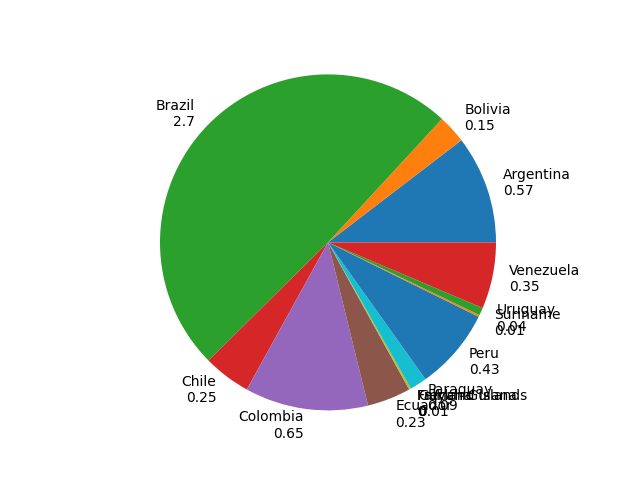
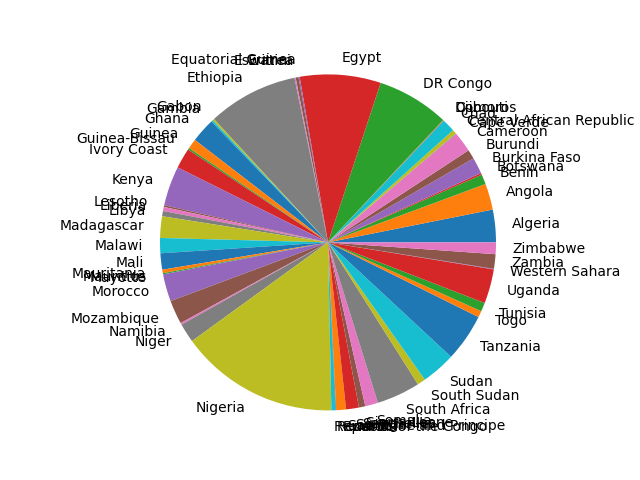
feat: se agregan nuevas funcionalidades y config de docker

Changed region(s): [[0.0938, 0.0938, 1.0, 0.9375]]

diff --git a/app/main.py b/app/main.py
@@ -1,15 +1,25 @@
 import utils
 import read_csv
 import charts
+import pandas as pd
 
 
 def run():
-  data = read_csv.read_csv('./data.csv')
+  '''
   data = list(
       filter(lambda country: country['Continent'] == 'South America', data))
   country = input('Escribe un pais:\n ')
 
-  result = utils.populationByCountry(data, country)
+  '''
+  dataFrames =  pd.read_csv('./data.csv' )
+  dataFrames = dataFrames[dataFrames['Continent'] == 'Africa']
+
+  country = dataFrames['Country/Territory'].values
+  porcetages = dataFrames['World Population Percentage'].values
+
+  charts.generate_pie_chart(country, porcetages)
+
+  result = utils.populationByCountry(country, country)
 
   if (len(result) > 0):
     labels, values = utils.get_population_by_country(result)

diff --git a/firstApi/main.py b/firstApi/main.py
@@ -1,0 +1,21 @@
+from fastapi import FastAPI
+
+app = FastAPI()
+
+@app.get("/")
+def read_root(name):
+    try:
+        return {
+            "status": 200,
+            "message": "first Api",
+            "object": {
+                "name": name,
+                "age": "<AGE>",
+            }
+        }
+    except Exception as error:
+        return {
+            "status": 500,
+            "message": "Internal Server Error",
+            "error": str(error)
+        }

diff --git a/app/charts.py b/app/charts.py
@@ -18,4 +18,3 @@ if __name__ == '__main__':
   labels = ['a', 'b', 'c']
   values = [50, 89, 301]
   generate_pie_chart(labels, values)
-  #generate_bar_chart(labels, values)
